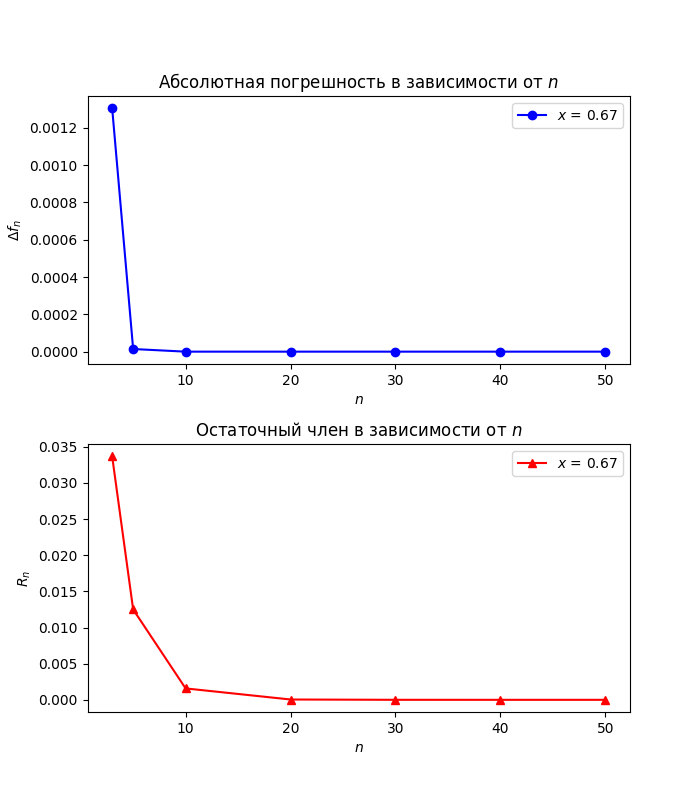
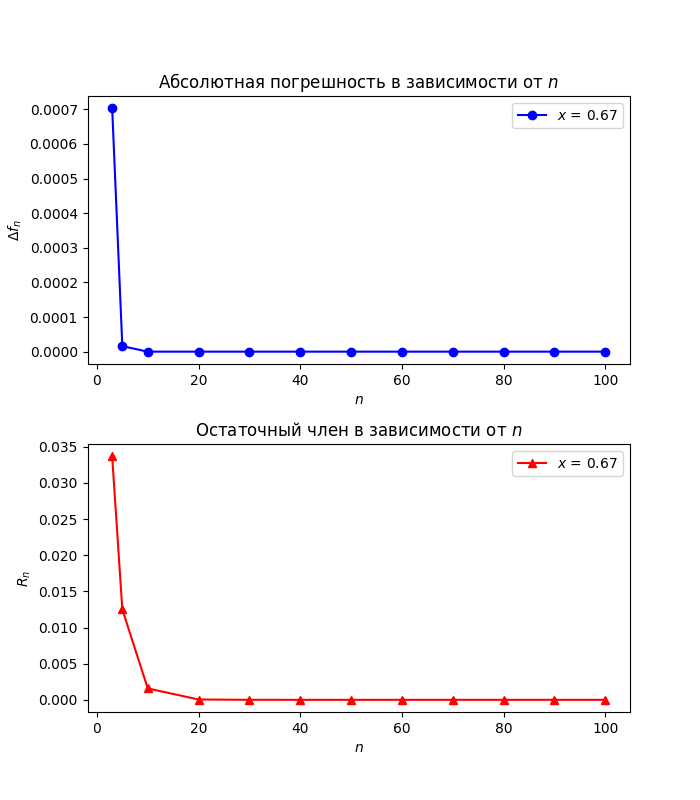
Faster calculations

diff --git a/Labs/lagrange/rust/src/main.rs b/Labs/lagrange/rust/src/main.rs
@@ -6,6 +6,7 @@
 // \_|  |_/\___/\____/\_| \_/\___/
 
 use csv::Writer;
+use ndarray::Array1;
 use std::{
     error::Error,
     fs::{self, File},
@@ -29,9 +30,10 @@ fn main() -> Result<(), Box<dyn Error>> {
     let x_interval: [f64; 2] = serde_json::from_value(x_interval_json.clone())?;
     let x_values: Vec<f64> = serde_json::from_value(x_values_json.clone())?;
 
+    let dirout_path = format!("{}/output", DATA_DIR);
+    fs::create_dir_all(&dirout_path)?;
+
     for x in x_values.iter() {
-        let dirout_path = format!("{}/output", DATA_DIR);
-        fs::create_dir_all(&dirout_path)?;
         let fout_path = format!("{}/x_{}.csv", dirout_path, *x);
         let fout = File::create(fout_path).expect("Failed to create file.");
 
@@ -74,24 +76,21 @@ fn L(n: &u32, [a, b]: &[f64; 2], x: &f64) -> Result<f64, String> {
         return Err("B O I, a is strictly less than b.".to_string());
     }
 
-    let x_0 = *a;
-    let dx = (*b - *a) / (*n as f64);
-
-    let mut l = 0.0_f64;
+    let linspace: Array1<f64> = Array1::linspace(*a, *b, *n as usize);
+    let mut l = 0.0;
     for i in 0..*n {
-        l += f(&(x_0 + (i as f64) * dx)) * Li(i, n, &x_0, &dx, x);
+        l += f(&linspace[i as usize]) * Li(n, i, &linspace, x);
     }
     Ok(l)
 }
 
 /// Evaluates the i-th term for the n-th Lagrange polynomial at x
 #[allow(non_snake_case)]
-fn Li(i: u32, n: &u32, x_0: &f64, dx: &f64, x: &f64) -> f64 {
-    let mut li = 1.0_f64;
-    for j in 0..(*n) {
+fn Li(n: &u32, i: u32, linspace: &Array1<f64>, x: &f64) -> f64 {
+    let mut li = 1.0;
+    for j in 0..*n {
         if j != i {
-            li *= *x - (*x_0 + (j as f64) * *dx);
-            li /= (i as i32 - j as i32) as f64 * *dx;
+            li *= (*x - linspace[j as usize]) / (linspace[i as usize] - linspace[j as usize]);
         }
     }
     li
@@ -104,47 +103,24 @@ fn abs_err(f: &f64, l_n: &f64) -> f64 {
 
 /// Obtain relative error between f and L
 fn rel_err(f: &f64, l_n: &f64) -> f64 {
-    abs_err(f, l_n) / f.abs() * 100.0_f64
+    abs_err(f, l_n) / f.abs() * 100.0
 }
 
 /// Obtain the upper bound of the error
 #[allow(non_snake_case)]
 fn R(n: &u32, [a, b]: &[f64; 2], x: &f64) -> Result<f64, String> {
     if *a >= *b {
-        return Err("B O I, 'a' is strictly less than 'b'.".to_string());
+        return Err("B O I, 'a' should be strictly less than 'b'.".to_string());
     }
 
-    let mut r = n_th_derivative(*n + 1, x)?.abs();
-
-    for k in 1..=*n + 1 {
-        r *= *b - *a;
-        r /= k as f64;
-    }
+    // First add the term for x^2
+    let mut r = match *n {
+        0 => 2.0 * x.abs() * (*b - *a),
+        1 => 2.0 * (*b - *a).powi(2) / 2.0,
+        _ => 0.0,
+    };
+    // Add the term for log(x) = ln(x) / ln(10)
+    r += ((*b - *a) / *x).powi(*n as i32 + 1) / (10.0_f64.ln() * (*n + 1) as f64);
 
     Ok(r)
-}
-
-/// Gets the value of the n-th derivative of y = x^2+log(x) (log in base 10)
-fn n_th_derivative(n: u32, x: &f64) -> Result<f64, String> {
-    if n < 1 {
-        return Err("Are you stupid? Only n >= 1.".to_string());
-    }
-
-    // Consider log(x) = ln(x)/ln(10)
-    let mut result = 1.0_f64 / 10.0_f64.ln();
-    // n-th derivative of ln(x)=(n-1)!(-1)^(n-1)/x^n
-    result /= *x;
-    for k in 1..n {
-        result *= k as f64 / *x;
-    }
-    // Add sign
-    if n % 2 == 0 {
-        result *= -1.0_f64;
-    }
-    // Add n-th derivative of x^2
-    match n {
-        1 => Ok(2.0_f64 * *x + result),
-        2 => Ok(2.0_f64 + result),
-        _ => Ok(result),
-    }
 }

diff --git a/Labs/lagrange/python/main.py b/Labs/lagrange/python/main.py
@@ -27,12 +27,14 @@ def gen_data() -> None:
         stderr=subprocess.PIPE,
     )
 
-    _, stderr = proc.communicate()
+    stdout, stderr = proc.communicate()
 
     if proc.returncode != 0:
         raise ChildProcessError(f"Fuck you, here's an error:\n{stderr.decode()}")
 
-    print(f"Rust code run successfully!")
+    print("Rust code run successfully!")
+    if stdout.decode():
+        print(stdout.decode())
 
 
 if __name__ == "__main__":

diff --git a/Labs/lagrange/README.md b/Labs/lagrange/README.md
@@ -1,18 +1,18 @@
 # _1st Lab_: Lagrange Polynomial
 
-> ### Variant
+> ## Variant
 >
 > 19
 >
-> ### Function
+> ## Function
 >
 > y = x^2+log(x) (log in base 10).
 >
-> ### Interval
+> ## Interval
 >
 > [a, b] = [0.4, 0.9]
 >
-> ### Interpolation points
+> ## Interpolation points
 >
 > {x\*, x**, x\***, x\*\*\*\*} = {0.53, 0.43, 0.86, 0.67}
 
@@ -25,7 +25,7 @@ Do an analysis and graphical representation of the error of an interpolation usi
 Set the input data in `./data/input/data.json` where you can set the `n_values`, `x_interval` and `x_values`. Be careful cause an interval can only consist of two numbers. `data.json` looks as follows:
 
     {
-        "n_values": [3, 5, 10, 20, 30, 40, 50],
+        "n_values": [3, 5, 10, 20, 30, 40, 50, 60, 70, 80, 90, 100],
         "x_interval": [0.4, 0.9],
         "x_values": [0.53, 0.43, 0.86, 0.67]
     }
@@ -34,6 +34,20 @@ Run `py ./python/main.py` and check the results in `./data/output`.
 
 > _Warning:_ Change the `DATA_DIR` constant as specified in the `main.rs` file if you run `cargo run` in `./rust`
 
-## Result
+## Faster Calculations
 
-![](data/output/general.png)
+In order to get the upper bound of the remainder of the Lagrange polynomial, f(x) was considered as x^2 + ln(x)/ln(10).
+
+Using that one can get the following:
+
+![Rn of f(x)](math/Rn_of_f.png)
+
+The simplified term for ln(x) is obtained from:
+
+![Rn of ln(x)](math/Rn_of_lnx.png)
+
+This simplifies calculations in the Rust section of the project since for n>1 the term for x^2 is 0.
+
+## Results
+
+![Results](data/output/general.png)
